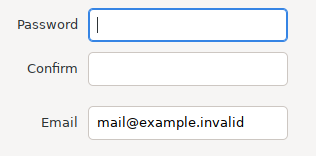
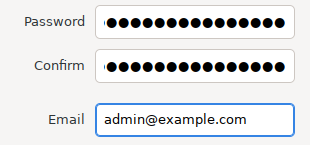
Revisión del módulo 2 para Proxmox VE 9 y VirtualBox 7.2

Changed region(s): [[0.1161, 0.6897, 0.9581, 0.9655], [0.029, 0.0276, 0.9581, 0.2759], [0.0871, 0.331, 0.9581, 0.5793]]

diff --git a/modulo2/laboratorio.md b/modulo2/laboratorio.md
@@ -14,7 +14,7 @@ siguiente:
   
   Dependiendo de la cantidad de memoria RAM, espacio de disco duro y VCPU que asignemos a la máquina virtual donde vamos a instalar Proxmox VE, podremos virtualizar más o menos máquinas virtuales o contenedores:
 
-  * Por ejemplo, desde el punto de vista de la RAM: si virtualizamos una máquina virtual sin entorno gráfico podemos asignarle 512Mb, si tiene entorno gráfico ya tendríamos que usar 1 o 2GB, si virtualizamos una máquina Windows al menos tendremos que asignar 2Gb de RAM.
+  * Por ejemplo, desde el punto de vista de la RAM: si virtualizamos una máquina virtual sin entorno gráfico podemos asignarle 512Mb, si tiene entorno gráfico ya tendríamos que usar 1 o 2GB, si virtualizamos una máquina Windows al menos tendremos que asignar 4Gb de RAM.
   * Desde el punto de vista del almacenamiento: Este factor no es tan importante, pero tenemos que pensar que hay que almacenar las ISO para la instalación de las máquinas, las plantillas (templates) usadas para la creación de los contenedores, las copias de seguridad de las máquinas, ... y los discos duros de las máquinas virtuales. Este aspecto no es tan crítico, porque cómo veremos utilizaremos *aprovisionamiento ligero* que nos permite reducir el espacio ocupado por las máquinas virtuales.
   * Al crear máquinas virtuales o contenedores podremos asignarle cores virtuales de CPU, por lo que aumentará el rendimiento si asignamos a nuestra máquina virtual suficientes núcleos de CPU.
 
@@ -36,19 +36,21 @@ participantes utilizarán una máquina virtual en su propio equipo.
 
 ## Configuración especifica de VirtualBox para la instalación de Proxmox
 
-Consideramos que el hipervisor más común que podemos usar para la creación de la máquina virtual donde vamos a instalar Proxmox VE es VirtualBox. Para esta configuración se ha usado la versión **6.1.34**. En versiones anteriores puede que no exista alguna configuración o se encuentre modificada. Por lo tanto siguiendo estas [instrucciones](https://pve.proxmox.com/wiki/Proxmox_VE_inside_VirtualBox) tenemos que tener en cuenta los siguientes aspectos:
+Consideramos que el hipervisor más común que podemos usar para la creación de la máquina virtual donde vamos a instalar Proxmox VE es VirtualBox. Para esta configuración se ha usado la versión **7.2** (puedes descargarla desde la [página oficial de VirtualBox](https://www.virtualbox.org/wiki/Downloads)). En versiones anteriores puede que no exista alguna configuración o se encuentre modificada. La interfaz de VirtualBox es la misma en Linux, Windows y macOS, por lo que las capturas de pantalla te servirán independientemente del sistema operativo de tu equipo. Por lo tanto siguiendo estas [instrucciones](https://pve.proxmox.com/wiki/Proxmox_VE_inside_VirtualBox) tenemos que tener en cuenta los siguientes aspectos:
+
+**Nota:** En VirtualBox 7 la ventana de **Configuración** de la máquina tiene dos modos: **Basic** y **Expert**. Para ver todas las opciones que vamos a indicar a continuación tenemos que elegir el modo **Expert**. Además, algunas opciones aparecen en inglés aunque tengamos VirtualBox en español.
 
 ### Configuraciones necesarias
 
-* Hay que habilitar la virtualización anidada: Para ello: **Sistema - Procesador**:
+* Hay que habilitar la virtualización anidada: Para ello: **Sistema - Procesador**, opción **Nested VT-x/AMD-V**:
 
 ![img](img/virtualbox1.png)
 
-* Hay que habilitar KVM como interfaz de paravirtualización y habilitar paginación anidada. Para ello: **Sistema - Aceleración**:
+* Hay que habilitar KVM como interfaz de paravirtualización y habilitar paginación anidada. Para ello: **Sistema - Aceleración**, opciones **Paravirtualization Interface: KVM** y **Nested Paging**:
 
 ![img](img/virtualbox2.png)
 
-* Hay que configurar la red de la máquina en modo **Adaptador puente** y habilitar el **[modo promiscuo](https://es.wikipedia.org/wiki/Modo_promiscuo)**. Es recomendable que el adaptador puente utilice una interfaz física cableada para la conexión. Si conectamos el adaptador puente con una conexión wifi podemos experimentar problemas, ya que la mayoría de las tarjetas wifi no soportan el **modo promiscuo**.
+* Hay que configurar la red de la máquina en modo **Adaptador puente** y habilitar el **[modo promiscuo](https://es.wikipedia.org/wiki/Modo_promiscuo)** (opción **Promiscuous Mode: Permitir todo**). Es recomendable que el adaptador puente utilice una interfaz física cableada para la conexión. Si conectamos el adaptador puente con una conexión wifi podemos experimentar problemas, ya que la mayoría de las tarjetas wifi no soportan el **modo promiscuo**.
 
 ![img](img/virtualbox3.png)
 
@@ -56,16 +58,31 @@ Consideramos que el hipervisor más común que podemos usar para la creación de
 
 Estas configuraciones son recomendadas para aumentar el rendimiento de la máquina virtual donde vamos a instalar Proxmox y de esta forma intentar mitigar el descenso de rendimiento en las máquinas creadas en el sistema a causa de la virtualización anidada que estamos haciendo.
 
-* Al crear el disco duro de la máquina usar la opción **Tamaño fijo**. Normalmente escogemos discos con el modo **Reservado dinámicamente** donde va creciendo el espacio ocupado según las necesidades. Si reservamos inicialmente todo el espacio del disco aumentaremos el rendimiento.
+* Al crear el disco duro de la máquina, en el asistente de creación de la máquina virtual (apartado **Specify virtual hard disk**), marcar la opción **Reservar completamente**. Normalmente creamos discos que se reservan dinámicamente, donde va creciendo el espacio ocupado según las necesidades. Si reservamos inicialmente todo el espacio del disco aumentaremos el rendimiento.
 
 ![img](img/virtualbox4.png)
 
-* Usar dispositivos paravirtualizados, que ofrecen más rendimiento que otros modelos que están emulados. Escogeremos el modo **virtio-scsi** en la configuración del disco duro:
+* Usar dispositivos paravirtualizados, que ofrecen más rendimiento que otros modelos que están emulados. En la configuración del almacenamiento, el disco duro debe estar conectado a un controlador de tipo **virtio-scsi**:
 
 ![img](img/virtualbox5.png)
 
-* Del mismo modo, el tipo de la interfaz de red será **virtio-net**:
+* Del mismo modo, el tipo de la interfaz de red (**Tipo de Adaptador**) será **Red paravirtualizada (virtio-net)**:
 
 ![img](img/virtualbox6.png)
+
+## Si usas Windows como sistema anfitrión
+
+Si tu equipo usa Windows hay que tener en cuenta que si está activo el hipervisor de Windows (**Hyper-V**), VirtualBox funcionará por encima de él (lo notarás porque aparece el icono de una tortuga verde en la barra de estado de la máquina virtual). En ese caso **la virtualización anidada no funcionará** y Proxmox VE no podrá ejecutar máquinas virtuales.
+
+Hyper-V se activa, por ejemplo, si usamos **WSL2**, **Docker Desktop** o **Windows Sandbox**. Para desactivarlo:
+
+* En **Activar o desactivar las características de Windows** desmarcamos **Hyper-V**, **Plataforma de máquina virtual** y **Plataforma del hipervisor de Windows**.
+* En **Seguridad de Windows - Seguridad del dispositivo - Aislamiento del núcleo** desactivamos la **Integridad de memoria**.
+* Si sigue sin funcionar, ejecutamos en una terminal de administrador `bcdedit /set hypervisorlaunchtype off`.
+* Finalmente, reiniciamos el equipo.
+
+## Si usas un Mac con procesador Apple (M1, M2, ...)
+
+VirtualBox en los equipos Mac con procesadores Apple solo puede ejecutar sistemas operativos para la arquitectura ARM y no ofrece virtualización anidada, por lo que no podrás seguir el curso de esta manera. En este caso necesitarás utilizar un equipo con procesador Intel o AMD.
 
 * [Vídeo: Preparando un laboratorio para testear Proxmox VE](https://youtu.be/DVTuTRJcTGY)

diff --git a/modulo2/instalacion.md b/modulo2/instalacion.md
@@ -1,25 +1,35 @@
 # Instalación de Proxmox VE
 
-Vamos a instalar la versión 7 de Proxmox VE que está basada en la
-última versión estable de debian (la versión Bullseye). Aunque
-podríamos [instalar Proxmox en un sistema Debian 11
-Bullseye](https://pve.proxmox.com/wiki/Install_Proxmox_VE_on_Debian_11_Bullseye)
+Vamos a instalar la versión 9 de Proxmox VE que está basada en la
+última versión estable de debian (la versión Trixie, Debian 13). Aunque
+podríamos [instalar Proxmox en un sistema Debian 13
+Trixie](https://pve.proxmox.com/wiki/Install_Proxmox_VE_on_Debian_13_Trixie)
 ya existente, vamos a utilizar un fichero para hacer una instalación
 completa del sistema.
 
 Para ello nos vamos a la [página oficial de
-descargas](https://www.proxmox.com/en/downloads/item/proxmox-ve-7-1-iso-installer)
-y nos bajamos el fichero ISO: **Proxmox VE 7.1 ISO Installer**.
+descargas](https://www.proxmox.com/en/downloads/proxmox-virtual-environment/iso)
+y nos bajamos el fichero ISO de la última versión: **Proxmox VE 9.x ISO Installer**
+(en el momento de escribir este curso, la versión 9.2).
 
 Una vez que hemos preparado nuestra máquina donde vamos a hacer la
 instalación, comenzamos el proceso:
 
-Comenzamos la instalación eligiendo la opción **Install Proxmox VE**.
+Comenzamos la instalación eligiendo la opción **Install Proxmox VE (Graphical)**.
+Si el instalador gráfico diera problemas con nuestro hardware, podemos
+usar la opción **Install Proxmox VE (Terminal UI)**, que realiza la misma
+instalación en modo texto.
 
 ![instalación](img/instalacion1.png)
 
+A continuación aceptamos el acuerdo de licencia (**EULA**) pulsando
+sobre **I agree**.
+
+![instalación](img/instalacion0.png)
+
 Selecciona el disco donde vamos a realizar la instalación. Por defecto
-el disco duro se va a formatear con el sistema de ficheros *ext4*:
+el disco duro se va a formatear con el sistema de ficheros *ext4*
+(con el botón **Options** podríamos escoger otro, por ejemplo *xfs* o *ZFS*):
 
 ![instalación](img/instalacion2.png)
 
@@ -29,22 +39,35 @@ Configuramos país, la zona horaria y la distribución de teclado:
 
 Configuramos la contraseña del usuario `root` del sistema, con el que
 vamos a administrar Proxmox. Además, indicamos una dirección de correo
-para que Proxmox nos notifique distintas informaciones.
+para que Proxmox nos notifique distintas informaciones. **Tenemos que
+indicar una dirección de correo válida**: el instalador no nos dejará
+continuar con la dirección que aparece por defecto
+(`mail@example.invalid`).
 
 ![instalación](img/instalacion4.png)
 
 Configuración de red: elegimos la interfaz de red que vamos a
 usar. Como hemos comentado la interfaz estará conectada a la misma red
-que el host (en mi caso la 192.168.100.0/24) por lo que como vemos la
-máquina ha tomado una IP por mi DHCP 192.168.100.94, se indica la
+que el host (en mi caso la 192.168.122.0/24) por lo que como vemos la
+máquina ha tomado una IP por mi DHCP 192.168.122.235, se indica la
 puerta de enlace y el servidor DNS. Esta configuración también se
 podría poner de forma estática. También indicamos el nombre FQDN de la
 máquina.
 
+Por defecto está marcada la opción **Pin network interface names**,
+que fija el nombre de las interfaces de red para que no cambie en
+futuras actualizaciones. Por eso la interfaz de red se llama `nic0`.
+
 ![instalación](img/instalacion5.png)
 
 Nos aparece un resumen de los parámetros de instalación escogidos y
-pulsamos sobre **Install** para comenzar la instalación.
+pulsamos sobre **Install** para comenzar la instalación. Si está
+marcada la opción **Automatically reboot after successful
+installation**, la máquina se reiniciará automáticamente al terminar.
+No te olvides de quitar la imagen ISO de la unidad de CD/DVD de la
+máquina virtual para que arranque desde el disco duro.
+
+![instalación](img/instalacion6.png)
 
 Para profundizar en aspectos más concretos de la instalación de
 Proxmox:

diff --git a/modulo2/vista_general.md b/modulo2/vista_general.md
@@ -9,13 +9,14 @@ encontramos un panel de control que está dividido en cuatro partes:
 
 En la parte superior izquierda, lo primero que se ve es el logotipo de
 Proxmox. Junto a él se encuentra la versión actual de Proxmox VE. En
-la barra de búsqueda cercana puede buscar objetos específicos (VM,
+la barra de búsqueda situada en el centro podemos buscar objetos específicos (VM,
 contenedores, nodos, ...). A veces, esto es más rápido que seleccionar
 un objeto en el árbol de recursos.
 
 A la derecha nos encontramos varios botones:
 
-* **Documentation / Help**: nos muestran la documentación de Proxmox VE.
+* **Documentation**: nos muestra la documentación de Proxmox VE. Además, en cada
+  apartado encontraremos un botón **Help** con la ayuda correspondiente.
 * **Create VM**: Abre el asistente para crear una máquina virtual.
 * **Create CT**: Abre el asistente de creación de contenedores.
 * **Usuario** identificado en la sesión: Nos permite modificar la
@@ -31,10 +32,10 @@ podemos ver con distintas vistas:
 * **Server View**: Muestra todos los objetos, agrupados por nodos (servidores del clúster). Es
   la vista por defecto.
 * **Folder View**: Muestra todos los objetos, agrupados por tipo.
-* **Storage View**: Solo muestra los objetos de almacenamiento,
-  agrupados por nodos.
-* **Pool View**: Muestre máquinas virtuales y contenedores, agrupados
+* **Pool View**: Muestra máquinas virtuales y contenedores, agrupados
   por pools de recursos.
+* **Tag View**: Muestra máquinas virtuales y contenedores, agrupados
+  por etiquetas (*tags*).
 
 Si nos fijamos en la **Server View** podemos clasificar los objetos
 que tenemos disponibles:
@@ -47,6 +48,8 @@ Proxmox VE que estamos gestionando. Está formado por:
 * **Contenedores Linux**.
 * **Almacenamiento**: Tenemos las distintas fuentes de almacenamiento
   que tenemos disponibles.
+* **Zonas SDN**: Representan las redes definidas en el nodo. Por defecto
+  tenemos la zona `localnetwork`, que agrupa los bridges locales del nodo.
 * **Pools**: Podemos agrupar los distintos objetos en pools para
   facilitar su gestión.
 

diff --git a/modulo2/actividad1.md b/modulo2/actividad1.md
@@ -6,14 +6,15 @@
 
 Vamos a instalar el sistema de virtualización Proxmox VE, para ello sigue los siguientes pasos:
 
-1. Descarga la imagen de ISO de Proxmox VE 7.
+1. Descarga la imagen de ISO de Proxmox VE 9.
 2. Elige un hipervisor de máquinas virtuales y configura una máquina virtual con las características recomendadas que se han presentado en el contenido del tema. Recuerda que también puedes usar una máquina física para la realización del curso con recursos suficientes.
 3. Realiza la instalación como se ha explicado en el contenido del tema.
 
 Para superar la actividad deberás entregar en un fichero comprimido los siguientes pantallazos:
 
-1. Si has utilizado una máquina virtual para la instalación, pantallazos donde se vean las características de la máquina que has creado. Si has escogido la opción de usar una máquina física, un documento donde expliques las características de la máquina que has usado.
-2. Un pantallazo donde se compruebe que se ha accedido a Proxmox VE desde un navegador web y se ha logueado con el usuario `root` de forma correcta.
+1. Si has utilizado una máquina virtual para la instalación, pantallazos donde se vean las características de la máquina que has creado (incluyendo la virtualización anidada activada). Si has escogido la opción de usar una máquina física, un documento donde expliques las características de la máquina que has usado.
+2. Si has utilizado VirtualBox, un pantallazo de la ventana de la máquina virtual con Proxmox VE funcionando donde se vea la barra de estado inferior. Comprueba que **no aparece el icono de la tortuga verde**, que indicaría que VirtualBox se está ejecutando sobre Hyper-V y que la virtualización anidada no funcionará (revisa el apartado *Si usas Windows como sistema anfitrión*).
+3. Un pantallazo donde se compruebe que se ha accedido a Proxmox VE desde un navegador web y se ha logueado con el usuario `root` de forma correcta.
 
 
 ## RECURSOS

diff --git a/modulo2/introduccion_cluster.md b/modulo2/introduccion_cluster.md
@@ -23,6 +23,7 @@ opciones del clúster en el panel lateral, veamos algunas de ellas:
   máquinas virtuales, contenedores, almacenamiento, ...
 * **Summary**: Ofrece una breve descripción general del estado del
   clúster y el uso de recursos.
+* **Notes**: Podemos escribir comentarios usando Markdown.
 * **Clúster**: Proporciona la funcionalidad y la información
   necesarias para crear o unirse a un clúster. Con un solo nodo
   todavía no tenemos la funcionalidad de clúster. No vamos a estudiarla en este curso.
@@ -30,12 +31,14 @@ opciones del clúster en el panel lateral, veamos algunas de ellas:
 * **Storage**: Nos permite gestionar el almacenamiento del clúster.
 * **Backup**: Nos proporciona la posibilidad de crear copias de
   seguridad de los recursos de nuestro clúster.
-* **Replication**: Cuando tenemos más de dos nodos podemos administrar
+* **Replication**: Cuando tenemos más de un nodo podemos administrar
   tareas de replicación de máquinas y contenedores en este apartado.
 * **Permissions**: Podemos administrar usuarios, grupos, permisos,
   roles, ... a nivel del clúster.
 * **HA**: Si tenemos más de un nodo podemos administrar los recursos
   que van a estar en alta disponibilidad.
+* **SDN**: Nos permite gestionar las redes definidas por software (*Software-Defined Networking*): zonas, redes virtuales (VNets), ...
+* **Notifications**: Podemos configurar cómo y a quién se envían las notificaciones del sistema (por ejemplo, por correo electrónico).
 * ...
 
 ## Nodos

diff --git a/modulo2/almacenamiento_redes.md b/modulo2/almacenamiento_redes.md
@@ -17,6 +17,8 @@ almacenamiento se podrán guardar:
 * Ficheros de copia de seguridad.
 * Imágenes ISO.
 * Plantillas de contenedores.
+* Ficheros para importar (*Import*): imágenes de discos o máquinas
+  virtuales (por ejemplo, ficheros OVA) que podemos importar en Proxmox.
 
 Al ser tipo *Directory* esta información se guardará en un directorio
 del nodo, en concreto se guardará en `/var/lib/vz`.
@@ -45,7 +47,9 @@ configuración lo veremos en el módulo correspondiente.
 
 Por defecto, al instalar Proxmox VE, tenemos configurada una red pública:
 
-* `enp1s0`: Es la interfaz física del nodo.
+* `nic0`: Es la interfaz física del nodo. Como vimos en la instalación,
+  Proxmox fija el nombre de las interfaces de red (`nic0`, `nic1`, ...),
+  aunque también podemos ver su nombre alternativo (*Alternative Names*).
 * `vmbr0`: Es un *Linux Bridge* al que está conectado el nodo. En este
   bridge se conectarán por defecto las máquinas virtuales y
   contenedores que vamos a crear, que tomarán direccionamiento del
@@ -54,7 +58,7 @@ Por defecto, al instalar Proxmox VE, tenemos configurada una red pública:
   accesibles desde cualquier equipo de la red local.
 
 En mi caso, la red que tengo configurada tendrá direccionamiento
-`192.168.100.0/24` y la puerta de acceso es la `192.168.100.1`, pero
+`192.168.122.0/24` y la puerta de acceso es la `192.168.122.1`, pero
 en general se corresponderá a la red local a la que se conectó Proxmox
 durante la instalación.
 
